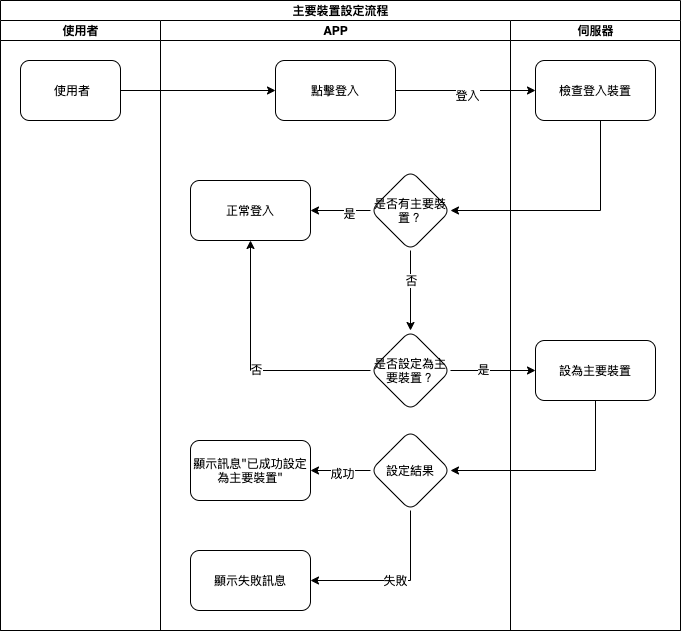
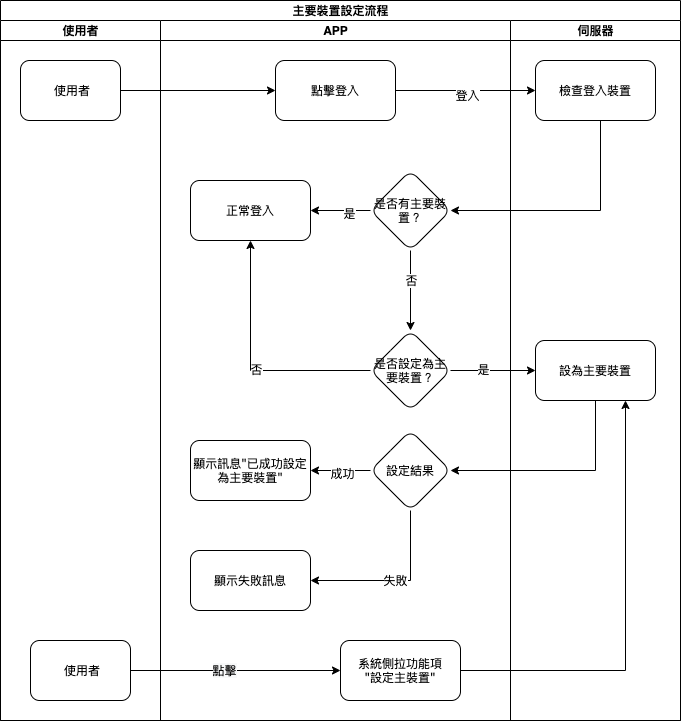
修改主裝置設定資料

diff --git a/8.10.0/UPDATE/ITEM_2/MAE/notification_system.md b/8.10.0/UPDATE/ITEM_2/MAE/notification_system.md
@@ -14,8 +14,11 @@
 
 #### <div id="specification">規格說明</div>
   * 需求展開
-    * 設定主要裝置
-      * 可將目前登入的裝置設定為主要裝置
+    * 主裝置設定
+      * 登入判斷
+        * 登入時判斷是否有設定主裝置，若否需強制詢問
+      * 系統設定
+        * 系統側拉選單功能項，可主動設定該裝置為主裝置
     * 裝置在背景/前景或未開啟的狀態下(主要裝置)可接收系統收到的通知
     * 在點擊系統通知時處理相對應功能
       1. [表單連結](notification_formlink.md)
